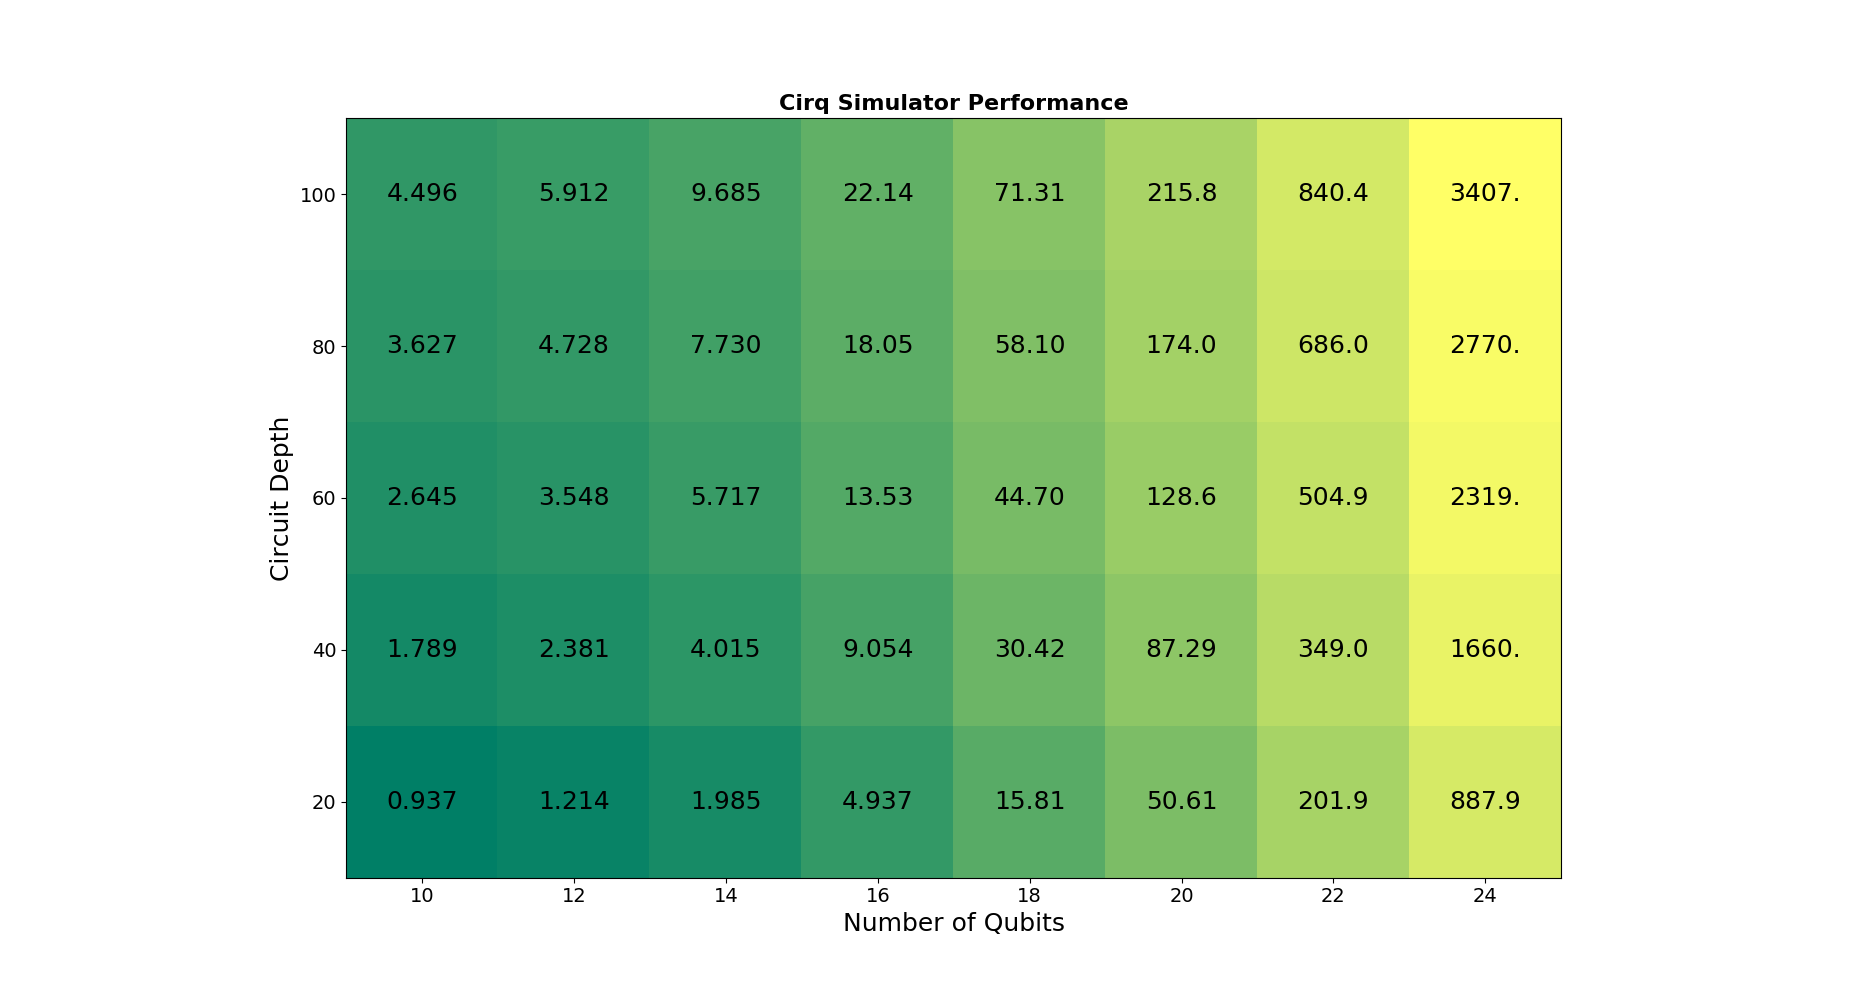
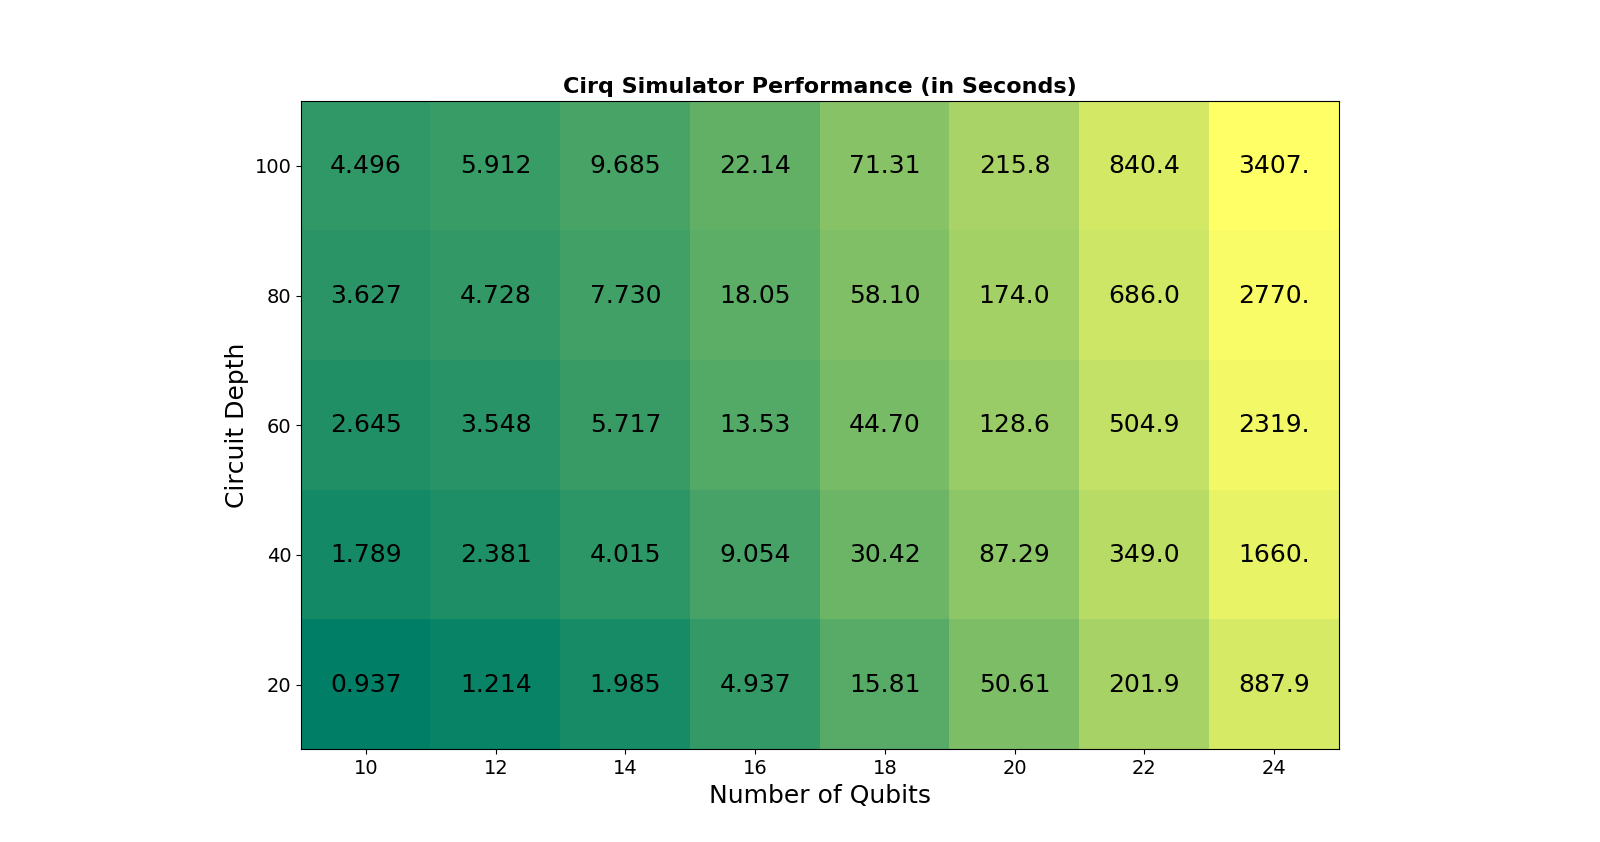
Added feedback from Alan and Doug.
Minor change to plot.py to show the plot.

Changed title of simulator performance plots in notebook to include (in Seconds) for clarity.

diff --git a/code/sim_test/plotting/plot.py b/code/sim_test/plotting/plot.py
@@ -54,7 +54,7 @@ plt.rc('figure', titlesize=MEDIUM_SIZE)  # fontsize of the figure title
 fpath = "../timing/"
 
 # simulator type
-sim = "simulator/"
+sim = "xmonsimulator/"
 
 # get all filenames
 fnames = glob(fpath + sim + "*.txt")
@@ -97,7 +97,7 @@ im = ax.imshow(log(time), origin=[0,0], cmap='summer')
 #cbar = ax.figure.colorbar(im, ax=ax)
 
 # title and labels
-plt.title('Cirq Simulator Performance', fontsize=16, fontweight='bold')
+plt.title('Cirq XmonSimulator Performance (in Seconds)', fontsize=16, fontweight='bold')
 plt.xlabel('Number of Qubits')
 plt.ylabel('Circuit Depth')
 
@@ -106,9 +106,12 @@ plt.xticks(range(NQUBITS), range(10, 24 + 1, 2))
 
 plt.yticks(range(NDEPTHS), range(20, 100 + 1, 20))
 
-# Loop over data dimensions and create text annotations.
+# loop over data dimensions and create text annotations
 for i in range(len(time)):
     for j in range(len(time[0])):
         tstr = str(time[i, j])
         text = ax.text(j, i, tstr[:5],
                        ha="center", va="center", color="k")
+
+# show the plot
+plt.show()
